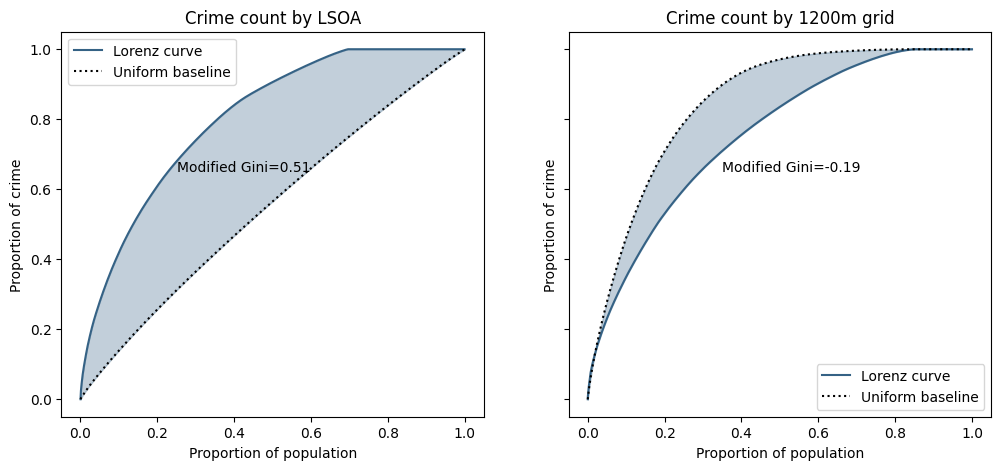
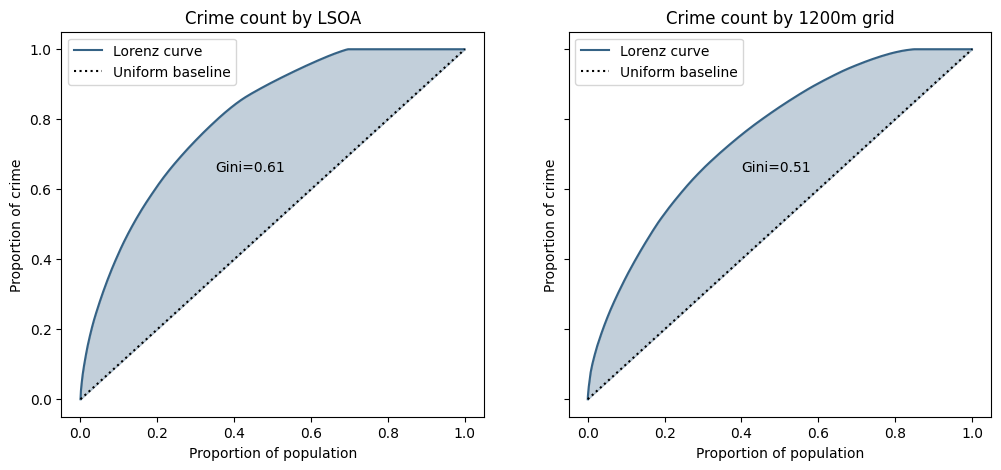
Deployed d202ade with MkDocs version: 1.6.1

diff --git a/blog/2025/08/22/measuring-crime-concentration-part-1/index.html b/blog/2025/08/22/measuring-crime-concentration-part-1/index.html
@@ -12,7 +12,7 @@
         <meta name="author" content="Andrew P Smith">
       
       
-        <link rel="canonical" href="http://safer-streets.github.io/blog/2025/08/22/measuring-crime-concentration/">
+        <link rel="canonical" href="http://safer-streets.github.io/blog/2025/08/22/measuring-crime-concentration-part-1/">
       
       
         <link rel="prev" href="../../11/crime-concentration-explorer/">
@@ -27,7 +27,7 @@
     
     
       
-        <title>Measuring Crime Concentration - Safer Streets @ Leeds</title>
+        <title>Measuring Crime Concentration (Part 1) - Safer Streets @ Leeds</title>
       
     
     
@@ -79,7 +79,7 @@
     <div data-md-component="skip">
       
         
-        <a href="#measuring-crime-concentration" class="md-skip">
+        <a href="#measuring-crime-concentration-part-1" class="md-skip">
           Skip to content
         </a>
       
@@ -114,7 +114,7 @@
         <div class="md-header__topic" data-md-component="header-topic">
           <span class="md-ellipsis">
             
-              Measuring Crime Concentration
+              Measuring Crime Concentration (Part 1)
             
           </span>
         </div>
@@ -671,6 +671,15 @@
 </li>
         
           <li class="md-nav__item">
+  <a href="#so-what-baseline-should-we-use" class="md-nav__link">
+    <span class="md-ellipsis">
+      So what baseline should we use?
+    </span>
+  </a>
+  
+</li>
+        
+          <li class="md-nav__item">
   <a href="#now-what" class="md-nav__link">
     <span class="md-ellipsis">
       Now what?
@@ -794,7 +803,7 @@
                       <li class="md-nav__item">
                         <div class="md-nav__link">
                           <svg xmlns="http://www.w3.org/2000/svg" viewBox="0 0 24 24"><path d="M15 13h1.5v2.82l2.44 1.41-.75 1.3L15 16.69zm4-5H5v11h4.67c-.43-.91-.67-1.93-.67-3a7 7 0 0 1 7-7c1.07 0 2.09.24 3 .67zM5 21a2 2 0 0 1-2-2V5c0-1.11.89-2 2-2h1V1h2v2h8V1h2v2h1a2 2 0 0 1 2 2v6.1c1.24 1.26 2 2.99 2 4.9a7 7 0 0 1-7 7c-1.91 0-3.64-.76-4.9-2zm11-9.85A4.85 4.85 0 0 0 11.15 16c0 2.68 2.17 4.85 4.85 4.85A4.85 4.85 0 0 0 20.85 16c0-2.68-2.17-4.85-4.85-4.85"/></svg>
-                          <time datetime="2025-08-29 00:00:00+00:00" class="md-ellipsis">August 29, 2025</time>
+                          <time datetime="2025-09-01 00:00:00+00:00" class="md-ellipsis">September 1, 2025</time>
                         </div>
                       </li>
                     
@@ -816,7 +825,7 @@
                           <svg xmlns="http://www.w3.org/2000/svg" viewBox="0 0 24 24"><path d="M12 20a8 8 0 0 0 8-8 8 8 0 0 0-8-8 8 8 0 0 0-8 8 8 8 0 0 0 8 8m0-18a10 10 0 0 1 10 10 10 10 0 0 1-10 10C6.47 22 2 17.5 2 12A10 10 0 0 1 12 2m.5 5v5.25l4.5 2.67-.75 1.23L11 13V7z"/></svg>
                           <span class="md-ellipsis">
                             
-                              9 min read
+                              10 min read
                             
                           </span>
                         </div>
@@ -865,8 +874,8 @@
   
 
 
-<h1 id="measuring-crime-concentration">Measuring Crime Concentration</h1>
-<p>What constitutes concentration? In this article we ask:</p>
+<h1 id="measuring-crime-concentration-part-1">Measuring Crime Concentration (Part 1)</h1>
+<p>What constitutes concentration? In these articles we ask:</p>
 <ul>
 <li>how do we count crimes? And how do we account for and control for heterogeneity in our observations (units with different area
 and populations)?</li>
@@ -949,22 +958,62 @@ on the right.</p>
 unit having the same number - approximately 1.9 - of crimes.</p>
 <p>Since LSOAs vary widely in area, a fixed number of crimes represents a wide variation in <em>crime density</em>, so in the
 right-hand graph we have computed the Gini coefficient using a baseline that represents an even distribution
-of <em>crime density</em> - i.e. the crime count is proportional to the size of the unit.</p>
+of <em>crime density</em> - i.e. the crime count is proportional to the size of the unit. This increases the Gini coefficient,
+suggesting there is no strong correlation between crime counts and unit area.</p>
 <h4 id="what-about-population">What about population?</h4>
 <p>So far we have compared cumulative area to a simple count of units, but we could also look at cumulative population
 (which is arguably more justifiable than area). The graphs below show the Lorenz curves for LSOAs (left) and the regular
 grid (right).</p>
 <p><img alt="lorenz-curves" src="../../../../../img/lorenz-curves-pop-weighted.png" /></p>
 <p>Because LSOAs do not have a high degree of variability in population, the Lorenz curve is very similar to the unweighted
-one above and the modified Gini index is lower largely due to the slight curvature of baseline curve.</p>
+one above and the Gini index.</p>
 <p>Conversely, because there is a very high degree of variability in population for a regular grid (some 15% of units
-actually have zero population) the baseline curve is extremely steep, steeper even than the Lorenz curve, resulting in a
-negative modified Gini index, implying that under this measure (population weighted regular grid), crime is actually
-dispersed rather than concentrated!</p>
+actually have zero population) the Lorenz curve is less steep, and the Gini lower, suggesting there is a link between
+crime counts and resident population.</p>
+<h4 id="so-what-baseline-should-we-use">So what baseline should we use?</h4>
+<p>In the graphs below the Lorenz curves are plotted against various baseslines - the curves you would get if crime was perfectly
+evenly distributed, in terms of either:</p>
+<ul>
+<li>"unweighted": the expected crime count is the same for each spatial unit</li>
+<li>"area-weighted": the expected crime count is proportional to the area of the spatial unit</li>
+<li>"population-weighted": the expected crime count is proportional to the population in the spatial unit</li>
+</ul>
+<p><img alt="lorenz-baselines" src="../../../../../img/lorenz-baselines.png" /></p>
+<p>Firstly, since LSOAs don't vary widely in population, and grid area is constant with the exception of truncated units
+around the PFA edges, there is little difference between the unweighted baselines and the LSOA population-weighted and
+grid area-weighted baselines.</p>
+<p>Conversely, the other baseline curves are much closer to the observed data and seem to imply "the observed concentration
+in crime in {LSOA, grid} can largely be explained by the variation the {area of, population in} the spatial unit".</p>
+<p>And the table summarises the "Gini" values</p>
+<table>
+<thead>
+<tr>
+<th style="text-align: left;">Modified Gini</th>
+<th style="text-align: right;">Unweighted</th>
+<th style="text-align: right;">Area</th>
+<th style="text-align: right;">Population</th>
+</tr>
+</thead>
+<tbody>
+<tr>
+<td style="text-align: left;">LSOA</td>
+<td style="text-align: right;">0.61</td>
+<td style="text-align: right;">-0.05</td>
+<td style="text-align: right;">0.52</td>
+</tr>
+<tr>
+<td style="text-align: left;">1200m grid</td>
+<td style="text-align: right;">0.82</td>
+<td style="text-align: right;">0.74</td>
+<td style="text-align: right;">0.13</td>
+</tr>
+</tbody>
+</table>
 <h4 id="now-what">Now what?</h4>
-<p>We've used the same raw crime and population data to create 5 very different representations of crime concentration, illustrating the
-subjectivity of these measures and the profound impact the choice of aggregation can have.</p>
-<p>In the next section we shall look at whether the baselines are a sensible reference value for measuring concentration.</p>
+<p>We've used the same raw crime and population data to create some very different representations of crime concentration,
+illustrating the subjectivity of these measures and the profound impact the choice of aggregation can have.</p>
+<p>However there's a more fundamental problem in the comparison against a perfectly even distribution of crime. In the
+next section we shall look at whether any of the baselines are a sensible reference value for measuring concentration.</p>
 <h2 id="what-if-crime-isnt-concentrated">What if crime <strong>isn't</strong> concentrated?</h2>
 <p>The distribution of crimes across spatial units is necessarily a discrete distribution, since you can't have fractional
 crimes. In the previous section the baseline represented ~1.9 crimes per unit, so is impossible - the closest we could

diff --git a/blog/archive/2025/index.html b/blog/archive/2025/index.html
@@ -461,9 +461,9 @@
     <ul class="md-nav__list" data-md-component="toc" data-md-scrollfix>
       
         <li class="md-nav__item">
-  <a href="#measuring-crime-concentration" class="md-nav__link">
+  <a href="#measuring-crime-concentration-part-1" class="md-nav__link">
     <span class="md-ellipsis">
-      Measuring Crime Concentration
+      Measuring Crime Concentration (Part 1)
     </span>
   </a>
   
@@ -689,9 +689,9 @@
     <ul class="md-nav__list" data-md-component="toc" data-md-scrollfix>
       
         <li class="md-nav__item">
-  <a href="#measuring-crime-concentration" class="md-nav__link">
+  <a href="#measuring-crime-concentration-part-1" class="md-nav__link">
     <span class="md-ellipsis">
-      Measuring Crime Concentration
+      Measuring Crime Concentration (Part 1)
     </span>
   </a>
   
@@ -755,7 +755,7 @@
           
           <li class="md-meta__item">
             
-              9 min read
+              10 min read
             
           </li>
         
@@ -764,8 +764,8 @@
     </div>
   </header>
   <div class="md-post__content md-typeset">
-    <h2 id="measuring-crime-concentration"><a class="toclink" href="../../2025/08/22/measuring-crime-concentration/">Measuring Crime Concentration</a></h2>
-<p>What constitutes concentration? In this article we ask:</p>
+    <h2 id="measuring-crime-concentration-part-1"><a class="toclink" href="../../2025/08/22/measuring-crime-concentration-part-1/">Measuring Crime Concentration (Part 1)</a></h2>
+<p>What constitutes concentration? In these articles we ask:</p>
 <ul>
 <li>how do we count crimes? And how do we account for and control for heterogeneity in our observations (units with different area
 and populations)?</li>
@@ -779,7 +779,7 @@ between random and structural effects? What features must this model have to be 
 
     
       <nav class="md-post__action">
-        <a href="../../2025/08/22/measuring-crime-concentration/">
+        <a href="../../2025/08/22/measuring-crime-concentration-part-1/">
           Continue reading
         </a>
       </nav>

diff --git a/blog/category/methodology/index.html b/blog/category/methodology/index.html
@@ -565,9 +565,9 @@
     <ul class="md-nav__list" data-md-component="toc" data-md-scrollfix>
       
         <li class="md-nav__item">
-  <a href="#measuring-crime-concentration" class="md-nav__link">
+  <a href="#measuring-crime-concentration-part-1" class="md-nav__link">
     <span class="md-ellipsis">
-      Measuring Crime Concentration
+      Measuring Crime Concentration (Part 1)
     </span>
   </a>
   
@@ -671,9 +671,9 @@
     <ul class="md-nav__list" data-md-component="toc" data-md-scrollfix>
       
         <li class="md-nav__item">
-  <a href="#measuring-crime-concentration" class="md-nav__link">
+  <a href="#measuring-crime-concentration-part-1" class="md-nav__link">
     <span class="md-ellipsis">
-      Measuring Crime Concentration
+      Measuring Crime Concentration (Part 1)
     </span>
   </a>
   
@@ -719,7 +719,7 @@
           
           <li class="md-meta__item">
             
-              9 min read
+              10 min read
             
           </li>
         
@@ -728,8 +728,8 @@
     </div>
   </header>
   <div class="md-post__content md-typeset">
-    <h2 id="measuring-crime-concentration"><a class="toclink" href="../../2025/08/22/measuring-crime-concentration/">Measuring Crime Concentration</a></h2>
-<p>What constitutes concentration? In this article we ask:</p>
+    <h2 id="measuring-crime-concentration-part-1"><a class="toclink" href="../../2025/08/22/measuring-crime-concentration-part-1/">Measuring Crime Concentration (Part 1)</a></h2>
+<p>What constitutes concentration? In these articles we ask:</p>
 <ul>
 <li>how do we count crimes? And how do we account for and control for heterogeneity in our observations (units with different area
 and populations)?</li>
@@ -743,7 +743,7 @@ between random and structural effects? What features must this model have to be 
 
     
       <nav class="md-post__action">
-        <a href="../../2025/08/22/measuring-crime-concentration/">
+        <a href="../../2025/08/22/measuring-crime-concentration-part-1/">
           Continue reading
         </a>
       </nav>

diff --git a/blog/index.html b/blog/index.html
@@ -616,9 +616,9 @@
     <ul class="md-nav__list" data-md-component="toc" data-md-scrollfix>
       
         <li class="md-nav__item">
-  <a href="#measuring-crime-concentration" class="md-nav__link">
+  <a href="#measuring-crime-concentration-part-1" class="md-nav__link">
     <span class="md-ellipsis">
-      Measuring Crime Concentration
+      Measuring Crime Concentration (Part 1)
     </span>
   </a>
   
@@ -682,7 +682,7 @@
           
           <li class="md-meta__item">
             
-              9 min read
+              10 min read
             
           </li>
         
@@ -691,8 +691,8 @@
     </div>
   </header>
   <div class="md-post__content md-typeset">
-    <h2 id="measuring-crime-concentration"><a class="toclink" href="2025/08/22/measuring-crime-concentration/">Measuring Crime Concentration</a></h2>
-<p>What constitutes concentration? In this article we ask:</p>
+    <h2 id="measuring-crime-concentration-part-1"><a class="toclink" href="2025/08/22/measuring-crime-concentration-part-1/">Measuring Crime Concentration (Part 1)</a></h2>
+<p>What constitutes concentration? In these articles we ask:</p>
 <ul>
 <li>how do we count crimes? And how do we account for and control for heterogeneity in our observations (units with different area
 and populations)?</li>
@@ -706,7 +706,7 @@ between random and structural effects? What features must this model have to be 
 
     
       <nav class="md-post__action">
-        <a href="2025/08/22/measuring-crime-concentration/">
+        <a href="2025/08/22/measuring-crime-concentration-part-1/">
           Continue reading
         </a>
       </nav>

diff --git a/blog/tags/index.html b/blog/tags/index.html
@@ -782,8 +782,8 @@
       </li>
     
       <li>
-        <a href="../2025/08/22/measuring-crime-concentration/">
-          Measuring Crime Concentration
+        <a href="../2025/08/22/measuring-crime-concentration-part-1/">
+          Measuring Crime Concentration (Part 1)
         </a>
       </li>
     
@@ -805,8 +805,8 @@
       </li>
     
       <li>
-        <a href="../2025/08/22/measuring-crime-concentration/">
-          Measuring Crime Concentration
+        <a href="../2025/08/22/measuring-crime-concentration-part-1/">
+          Measuring Crime Concentration (Part 1)
         </a>
       </li>
     
@@ -822,8 +822,8 @@
   <ul>
     
       <li>
-        <a href="../2025/08/22/measuring-crime-concentration/">
-          Measuring Crime Concentration
+        <a href="../2025/08/22/measuring-crime-concentration-part-1/">
+          Measuring Crime Concentration (Part 1)
         </a>
       </li>
     

diff --git a/blog/2025/08/11/crime-concentration-explorer/index.html b/blog/2025/08/11/crime-concentration-explorer/index.html
@@ -18,7 +18,7 @@
         <link rel="prev" href="../../../07/30/introducing-safer-streets/">
       
       
-        <link rel="next" href="../../22/measuring-crime-concentration/">
+        <link rel="next" href="../../22/measuring-crime-concentration-part-1/">
       
       
         <link rel="alternate" type="application/rss+xml" title="RSS feed" href="../../../../../feed_rss_created.xml">
